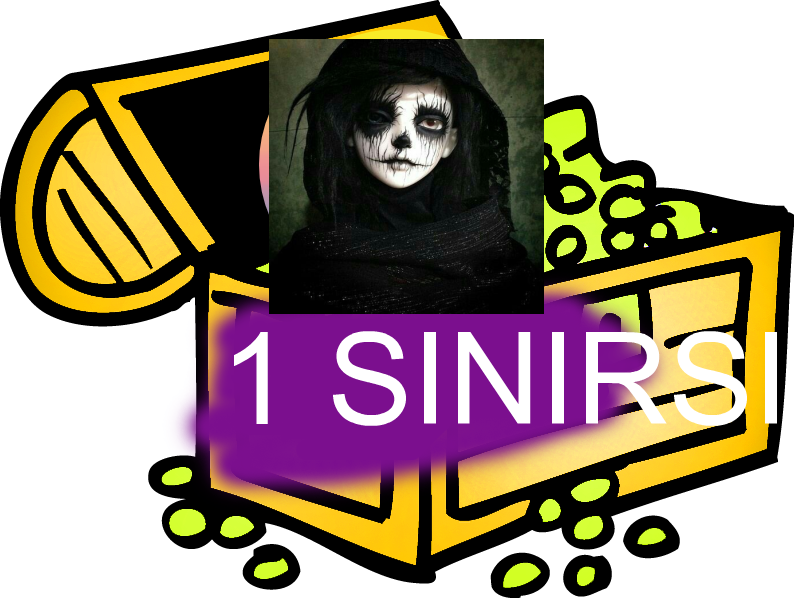
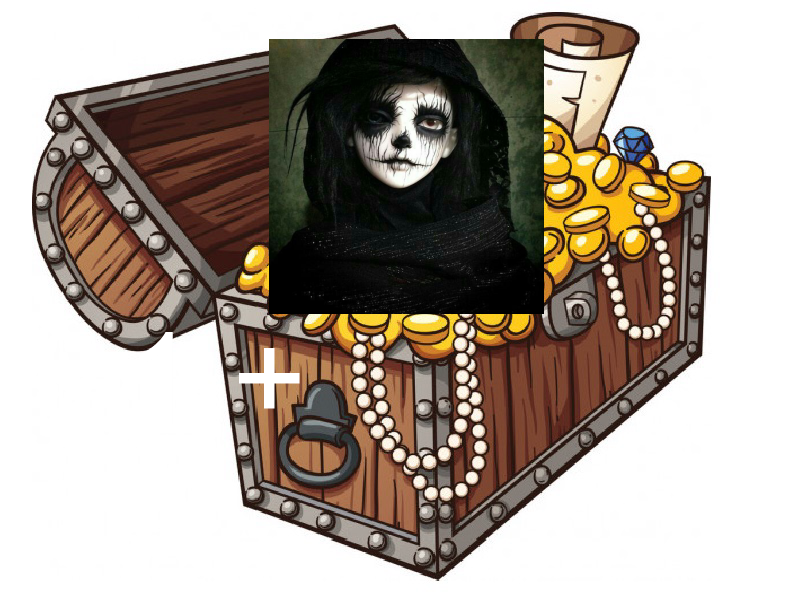
⛴🛤 Checkpoint ./komutlar/p-yetki.js:9624236/2011 ./komutlar/p-menü.js:9624236/208 ./events/ready.js:9624236/266 ./komutlar/günlükhediyes.js:9624236/1

diff --git a/komutlar/p-yetki.js b/komutlar/p-yetki.js
@@ -1,0 +1,52 @@
+const Discord = require('discord.js');
+const db = require('quick.db')
+const fs = require("fs")
+const ms = require("ms")
+const Jimp = require("jimp")
+exports.run = async (client, message,args) => {
+
+   
+  if (db.fetch(`goldpuan_${message.author.id}`) >= 50000) {
+let kod31 = "";
+  kod31 = (kod31 + Math.floor(Math.random() * 2));
+  
+ 
+ const kod32 = require("useful-tools").hesapla(`${db.fetch(`goldpuan_${message.author.id}`)}-50000`)
+ db.add(`goldsure_${message.author.id}`, kod31)
+ db.set(`goldpuan_${message.author.id}`, kod32)
+    var user = message.author; 
+  
+  Jimp.read(`https://cdn.discordapp.com/attachments/655408338640699434/663057139199377422/depositphotos_66010155-stock-illustration-treasure-chest.jpg`, async(err, image) => {
+    await image.resize(794, 598)
+        var font = await Jimp.loadFont(Jimp.FONT_SANS_128_WHITE);
+        await image.print(font, 125, 309, kod31 + " +");
+    Jimp.read(user.avatarURL, async(err, avatar) => {
+        await avatar.resize(275, 275) 
+      await image.composite(avatar, 269, 39).write(`./resimler/gold/gold-${message.author.id}.png`);
+        setTimeout(function() {
+            message.reply(`Bravo! **Yetki Kasadan! (${kod31})** Efsane(${kod31})+ kadar yetkin arttı iyi kullanmalar `)
+            return message.channel.send(new Discord.Attachment(`./resimler/gold/gold-${message.author.id}.png`));
+        }, 1000);
+      });
+    return
+    });
+
+
+    
+  } else {
+  return message.reply("Puanınız Yetersizdir.")  
+  }
+}
+
+module.exports.conf = {
+  enabled: true,
+  guildOnly: false,
+  aliases: [],
+  permLevel: 0
+};
+
+module.exports.help = {
+  name: 'p-yetki',
+  description: '',
+  usage: ''
+};

diff --git a/komutlar/p-menü.js b/komutlar/p-menü.js
@@ -51,34 +51,38 @@ daha fazla puan kazanmak için !p-menü yazabilirsin.
 Puanınızı ve market menüsünü gösterir.
 
 `)
- .addField("!p-topaz", `
+ .addField("a!p-topaz", `
 5.000 puan karşılığında topaz kasa açarsınız.
 İçinden rastgele 1-3 gün arası gold üye çıkar.
 `)
- .addField("!p-invite", `
+ .addField("!ap-invite", `
 10.000 puan karşılığı invite kasa açarsınız.
 İçinden rastgele 1-10 arası invite çıkar.
 `)
-  .addField("!p-ucuz", `
+  .addField("a!p-ucuz", `
 1.000 puan karşılığı invite kasa açarsınız.
 İçinden rastgele 1-10 arası Vip  çıkar.
 `)
-   .addField("!p-100k", `
+   .addField("a!p-100k", `
 100000 puan karşılığı invite kasa açarsınız.
 İçinden rastgele 100-1000 arası GOLD ÜYE + 15 İNVİTE  çıkar.
 `)
-   .addField("!p-sınırsız", `
+    .addField("a!p-yetki", `
+50000 puan karşılığı invite kasa açarsınız.
+İçinden rastgele Yetki puanı çıkar  çıkar.
+`)
+   .addField("a!p-sınırsız", `
 75000 puan karşılığı invite kasa açarsınız.
 İçinden rastgele SINIRISZ-SINIRSIZ arası Vip  çıkar.
 `)
  
  
- .addField("!p-yakut", `
+ .addField("a!p-yakut", `
 10.000 puan karşılığı yakut kasa açarsınız.
 İçinden rastgele 1-10 gün arası gold üye çıkar.
 `)
  
- .addField("!p-garnet", `
+ .addField("a!p-garnet", `
 45.000 puan karşılığı garnet kasa açarsınız.
 İçinden rastgele (10-45) gün arası gold üye çıkar.
 `)

diff --git a/events/ready.js b/events/ready.js
@@ -14,7 +14,7 @@ module.exports = client => {
   //online = çevrimiçi
   console.log(`${client.user.id}                                                                                                                                                                     `)
   //client.user.setActivity(`${prefix}yardım | ${client.guilds.size} sunucu | ${client.guilds.reduce((a, b) => a + b.memberCount, 0).toLocaleString()} Kullanıcıyı`, { type: "LISTENING"});
-client.user.setActivity(`!BAKIMDA🔥 BETA 0.8.4`, { type: "WATCHING"});  
+client.user.setActivity(`🔥a!p-market🔥 BETA 0.8.4`, { type: "WATCHING"});  
 //LISTENING = DİNLİYOR
   //WATCHING = İZLİYOR
   //PLAYING = OYNUYOR 

diff --git a/komutlar/günlükhediyes.js b/komutlar/günlükhediyes.js
@@ -51,7 +51,7 @@ module.exports.conf = {
 };
 
 module.exports.help = {
-  name: 'günlük-hediyem',
+  name: 'günlük-hediyems',
   description: '',
   usage: ''
 };
